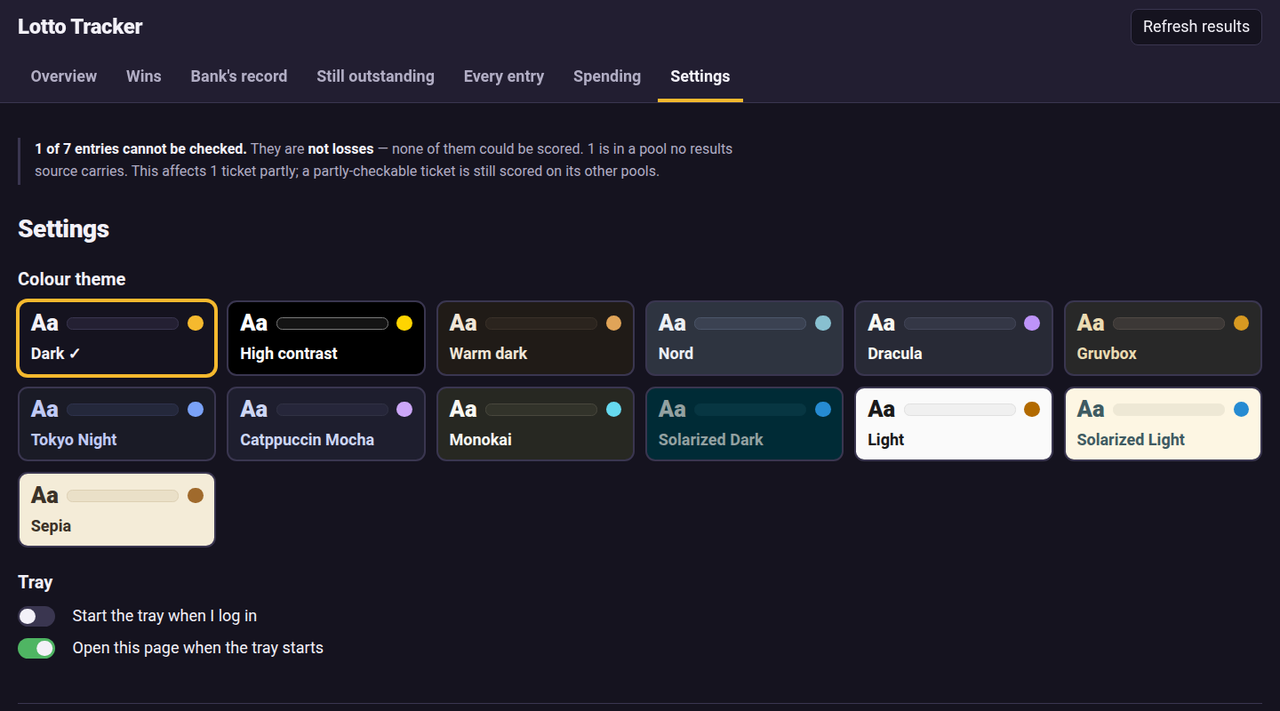
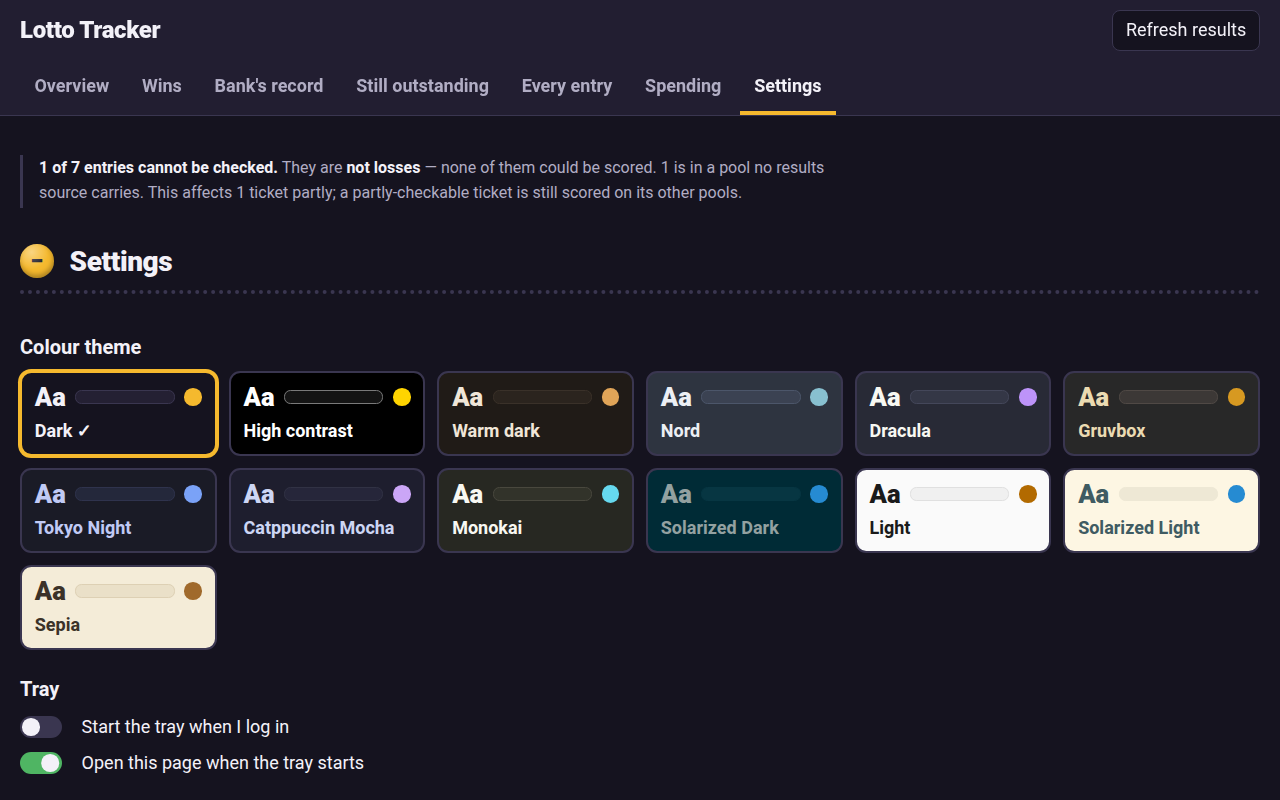
content: finbreak 1.1.0, DeFragR packages, LottoTracker 1.0.0 live
From the project sessions' messages of 2026-11-18 (msgs 2238, 2239, 2249).

- finbreak: five machine-translated languages, the duplicate-import
  warning, the Bank box, form hints, large PDF imports, and the
  home-loan and failed-Windows-update fixes.
- DeFragR: installs from its OBS repository (folders checked on
  download.opensuse.org), with the Tumbleweed commands; blurb and the
  "no installable package" lines updated.
- LottoTracker: status live; 1.0.0's slips and stamps, folding
  sections, and Accept/Undo. All seven tabs retaken from
  tools/demo_page.py at v1.0.0 with headless Chrome, footer cropped;
  Bank's record, Still outstanding and Spending are new shots.

write-doc: short path; check-doc.py on the three About pages,
local-CI.sh passed, built pages' download links and status read.

diff --git a/src/about/lotto-tracker.md b/src/about/lotto-tracker.md
@@ -78,16 +78,27 @@ results pages.
 
 ## Where it stands
 
-In beta, with no account, no API key and nothing paid. It now comes as one Linux
-file you download and run, an AppImage.
+Finished and stable, with no account, no API key and nothing paid. It comes as
+one Linux file you download and run, an AppImage.
 
 That file needs a recent Linux: version 2.44 or newer of the GNU C library, which
 `ldd --version` shows. It will not start on many older systems yet; a build that
 runs on more of them is planned. It is Linux only for now. A Windows version is
 planned, not started.
 
-The newest version gives the page a new look. It opens on when to buy next, with
-every running ticket drawn as a lottery slip. The tray checks for new results by
+The newest version gives the page a finished look. Every win and entry is a small
+lottery slip in its game's colour, with a win's amount printed on the slip.
+Payment shows as a rubber stamp: Paid, Unpaid or Accepted. "Not checkable" has a
+dashed outline, so it can never pass for R0.00. Every section on every tab folds
+away from the ball beside its title, and stays folded next time. The warnings at
+the top and the Overview's buy reminder never fold.
+
+You can now accept a win the bank has not fully paid. Press Accept and it moves
+to "Accepted by you" and stops counting as waiting; Undo moves it back. The
+bank's record and every total stay as they were.
+
+An earlier version opened the page on when to buy next, with every running
+ticket drawn as a lottery slip. The tray checks for new results by
 itself at 22:00 each evening and tells you only when you have won. A Bank's record
 tab shows where the bank's payments differ from what the app worked out, and why.
 The Every entry table can be filtered by year and by whether an entry was checked.

diff --git a/src/about/fin-break.md b/src/about/fin-break.md
@@ -77,7 +77,22 @@ Stable, with more still planned. This is finbreak's first stable release. Your
 vault, your backups and your saved import settings will keep working with every
 update in this series.
 
-**Faster reports and transfers.** In the newest release, a PDF report of one
+**In your language.** Alongside English, finbreak now comes in Arabic, Chinese
+(Simplified), French, Hindi and Spanish. It opens in your computer's language
+when it has it. Change it any time in Settings and every screen switches at
+once. Arabic reads right to left. These five translations were made by AI and
+are marked "machine-translated" until a native speaker has checked them. If you
+can check one, get in touch through
+[GitHub issues](https://github.com/milnet01/finbreak/issues).
+
+The same release warns you before you import the same statement file twice,
+saying when and into which account. Each account has a Bank box, and Standard
+Bank imports check the account's bank too. The add-a-transaction form has
+hints, and large PDF statements import without freezing the window. Standard
+Bank home-loan repayments now show as money in, and a failed Windows update no
+longer removes finbreak.
+
+**Faster reports and transfers.** In an earlier release, a PDF report of one
 period is quicker to make, most of all on a vault with many years of history. The
 Transfers tab, and deleting a statement, stay fast as transfers build up. Your
 vault upgrades itself the first time the new version opens it. And locking

diff --git a/src/about/defragr.md b/src/about/defragr.md
@@ -45,9 +45,20 @@ up extra space.
 
 ## Where it stands now
 
-So far DeFragR gives a report and changes nothing. It is released as
-source code only, with no installable package yet. To try it now, you
-build it from that source code.
+So far DeFragR gives a report and changes nothing.
+
+Install DeFragR from its package repository on openSUSE, Fedora,
+Debian 13, Ubuntu 24.04 or later, or Arch, or build it from source.
+The packages are for 64-bit PCs only, and there is none for Debian 12.
+It installs with a menu entry and an icon. On openSUSE Tumbleweed:
+
+```bash
+sudo zypper addrepo https://download.opensuse.org/repositories/home:/milnet:/DeFragR/openSUSE_Tumbleweed/home:milnet:DeFragR.repo
+sudo zypper install defragr
+```
+
+For another system, pick its folder in the
+[repository on the openSUSE Build Service](https://download.opensuse.org/repositories/home:/milnet:/DeFragR/).
 
 What works in it:
 
@@ -71,5 +82,4 @@ What works in it:
   native speakers, and corrections are welcome. A few of the newest
   messages still show in English.
 
-Defragging itself comes in a later version, and so does an installable
-package.
+Defragging itself comes in a later version.

diff --git a/CHANGELOG.md b/CHANGELOG.md
@@ -19,6 +19,9 @@ so dated sections stand in for versions. Planned work lives in
 - Pressless's privacy policy covers YouTube figures, bringing in a website by its address, and Like and Dislike buttons.
 - Local Web Server Manager's page covers 0.6.1: a fixed message box at the foot of the window, and a safer release build.
 - Album Builder's page says it installs as a package on openSUSE Tumbleweed.
+- finbreak's page covers 1.1.0: Arabic, Simplified Chinese, French, Hindi and Spanish, a warning before importing the same statement twice, a Bank box on each account, and smoother large PDF imports.
+- DeFragR's page says it installs from its own package repository on openSUSE, Fedora, Debian 13, Ubuntu 24.04 or later, and Arch, with the openSUSE Tumbleweed commands.
+- LottoTracker is marked live and its page covers 1.0.0: wins and entries as lottery slips with payment stamps, sections that fold away, and accepting a win the bank has not fully paid. All seven tabs have fresh screenshots, including the first of Bank's record, Still outstanding and Spending.
 
 ## 2026-11-18
 
